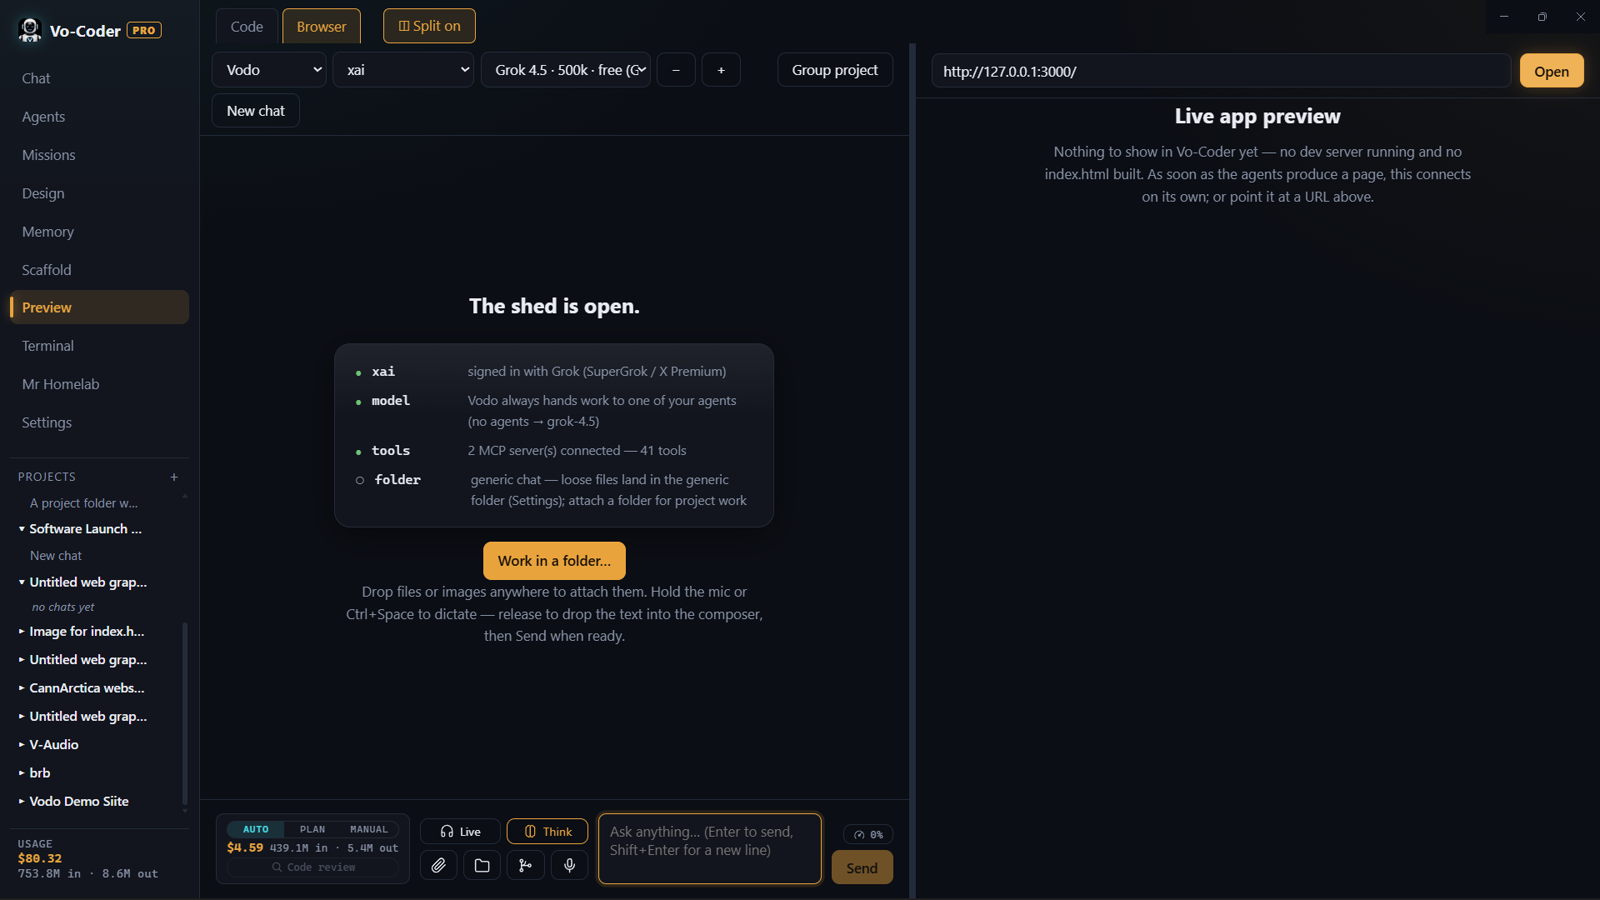
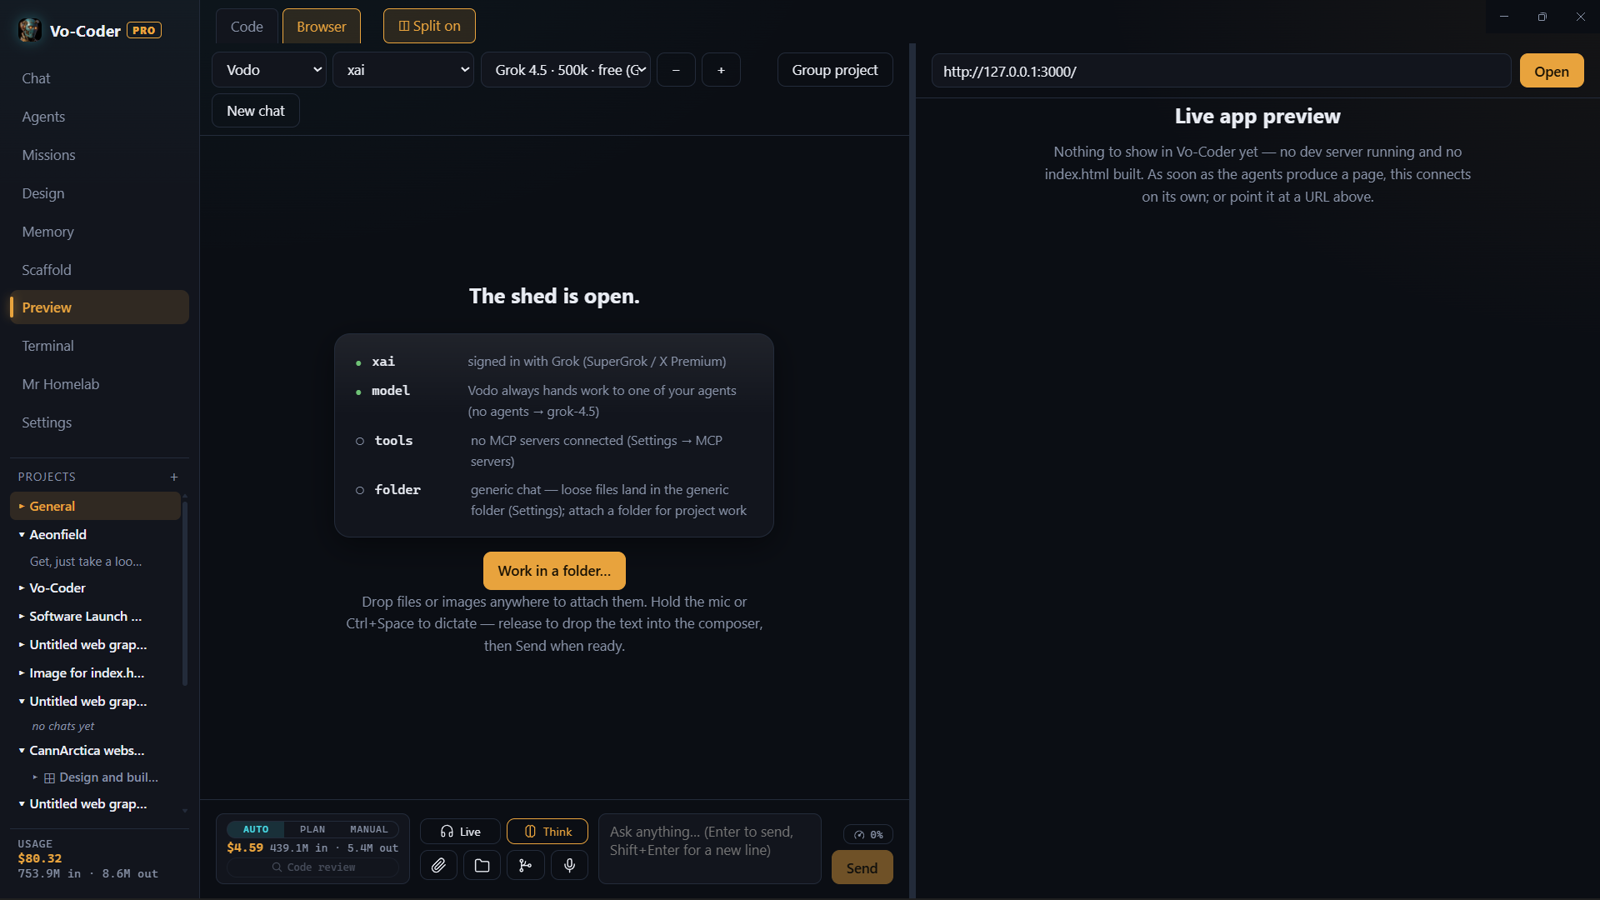
Site: split-view shots re-taken on the new build
The first pair still carried the old white-robot mark in the sidebar and a composer without the branch button, so they showed an app that no longer exists. Re-shot on beta.129: new icon, Worktrees button in the tool row. Versioned to v2 so the swap actually reaches anyone who loaded the old ones.

diff --git a/docs/index.html b/docs/index.html
@@ -471,12 +471,12 @@
 
     <div class="split stack-gap">
       <figure class="shot">
-        <img src="img/preview-split.png" loading="lazy"
+        <img src="img/preview-split.png?v=2" loading="lazy"
              alt="Split view: the chat on the left, the live code view on the right">
         <figcaption>Split view — the chat beside the code, divider draggable.</figcaption>
       </figure>
       <figure class="shot">
-        <img src="img/preview-split-browser.png" loading="lazy"
+        <img src="img/preview-split-browser.png?v=2" loading="lazy"
              alt="Split view: the chat on the left, the running app in the browser pane on the right">
         <figcaption>…or beside the running app. <code>Code</code>/<code>Browser</code> picks the right-hand side.</figcaption>
       </figure>
